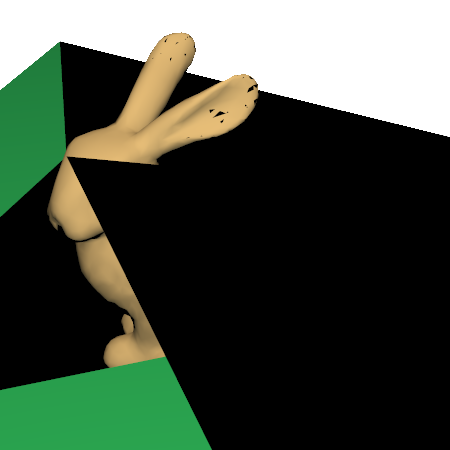
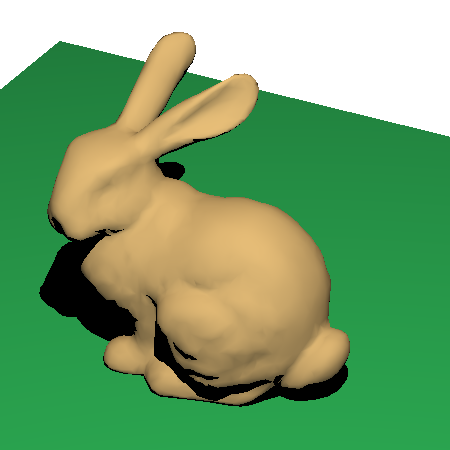
cook torrance and fresnel
still working on this

diff --git a/src/cs4620/ray2/shader/CookTorrance.java b/src/cs4620/ray2/shader/CookTorrance.java
@@ -4,9 +4,12 @@ import cs4620.ray2.IntersectionRecord;
 import cs4620.ray2.Light;
 import cs4620.ray2.Ray;
 import cs4620.ray2.Scene;
+import edu.cornell.graphics.exr.ilmbaseto.Vector3;
 import egl.math.Color;
 import egl.math.Colord;
 import egl.math.Vector3d;
+import egl.math.Vector4;
+import egl.math.Vector4d;
 
 public class CookTorrance extends Shader {
 
@@ -27,7 +30,7 @@ public class CookTorrance extends Shader {
 	 */
 	protected double refractiveIndex;
 	public void setRefractiveIndex(double refractiveIndex) { this.refractiveIndex = refractiveIndex; }
-	
+
 	public CookTorrance() { }
 
 	/**
@@ -48,15 +51,56 @@ public class CookTorrance extends Shader {
 	 */
 	@Override
 	public void shade(Colord outIntensity, Scene scene, Ray ray, IntersectionRecord record, int depth) {
-		// TODO#A7 Fill in this function.
-		// 1) Loop through each light in the scene.
-		// 2) If the intersection point is shadowed, skip the calculation for the light.
-		//	  See Shader.java for a useful shadowing function.
-		// 3) Compute the incoming direction by subtracting
-		//    the intersection point from the light's position.
-		// 4) Compute the color of the point using the CookTorrance shading model. Add this value
-		//    to the output.
-	
-        
-    }
+
+		Vector3d incoming = new Vector3d();
+		Vector3d outgoing = new Vector3d();
+		outgoing.set(ray.origin).sub(record.location).normalize();
+
+		Colord color = new Colord();
+		Colord color1 = new Colord();
+		Ray shadowRay = new Ray();
+
+		outIntensity.setZero();
+		for(Light light : scene.getLights()) {
+			if(!isShadowed(scene, light, record, shadowRay)) {
+				incoming.set(light.getDirection(record.location)).normalize();
+
+				double dotProd = record.normal.dot(incoming);
+				if (dotProd <= 0)
+					continue;
+				else {
+					Vector3d halfVec = new Vector3d();
+					halfVec.set(incoming).add(outgoing).normalize();
+
+					double halfDotNormal = Math.max(0.0, halfVec.dot(record.normal));
+					double factor = Math.pow(halfDotNormal, 3);
+					double rSq = light.getRSq(record.location);
+
+					color.set((texture == null) ? diffuseColor :
+						texture.getTexColor(record.texCoords))
+						.mul(dotProd)
+						.addMultiple(factor, specularColor)
+						.mul(light.intensity)
+						.div(rSq);
+
+					double dgOverNvNl = .1;
+					double fresnel = fresnel(record.normal, outgoing, refractiveIndex);
+					
+					Colord kd = ((texture == null) ? diffuseColor :
+						texture.getTexColor(record.texCoords));
+					Colord ctShade = (Colord) specularColor.mul(fresnel).mul(dgOverNvNl).add(kd);
+					
+					//why id there no ambient term?? where is it?
+					color1.set(ctShade
+						.mul(dotProd)
+						.mul(light.intensity)
+						.div(rSq));
+
+					outIntensity.add(color1);
+				}
+			}
+		}
+
+	}
+
 }

diff --git a/src/cs4620/ray2/shader/Shader.java b/src/cs4620/ray2/shader/Shader.java
@@ -65,7 +65,16 @@ public abstract class Shader {
 	
 	protected double fresnel(Vector3d normal, Vector3d outgoing, double refractiveIndex) {
 		//TODO#A7 compute the fresnel term using the equation in the lecture
+		
+		//do we need to check whether we're entering or exiting a material?
+		//or does this equation take care of that check?
+		double n1 = 1.00;
+		double n2 = refractiveIndex;
+		
+		double cosT = normal.dot(outgoing);
+		double r0 = Math.pow(((n2-n1)/(n2+n1)), 2);
+		double rApprox = r0 + (1-r0)*(Math.pow((1-cosT),5));
 
-		return 0.0;
+		return rApprox;
 	}
 }
